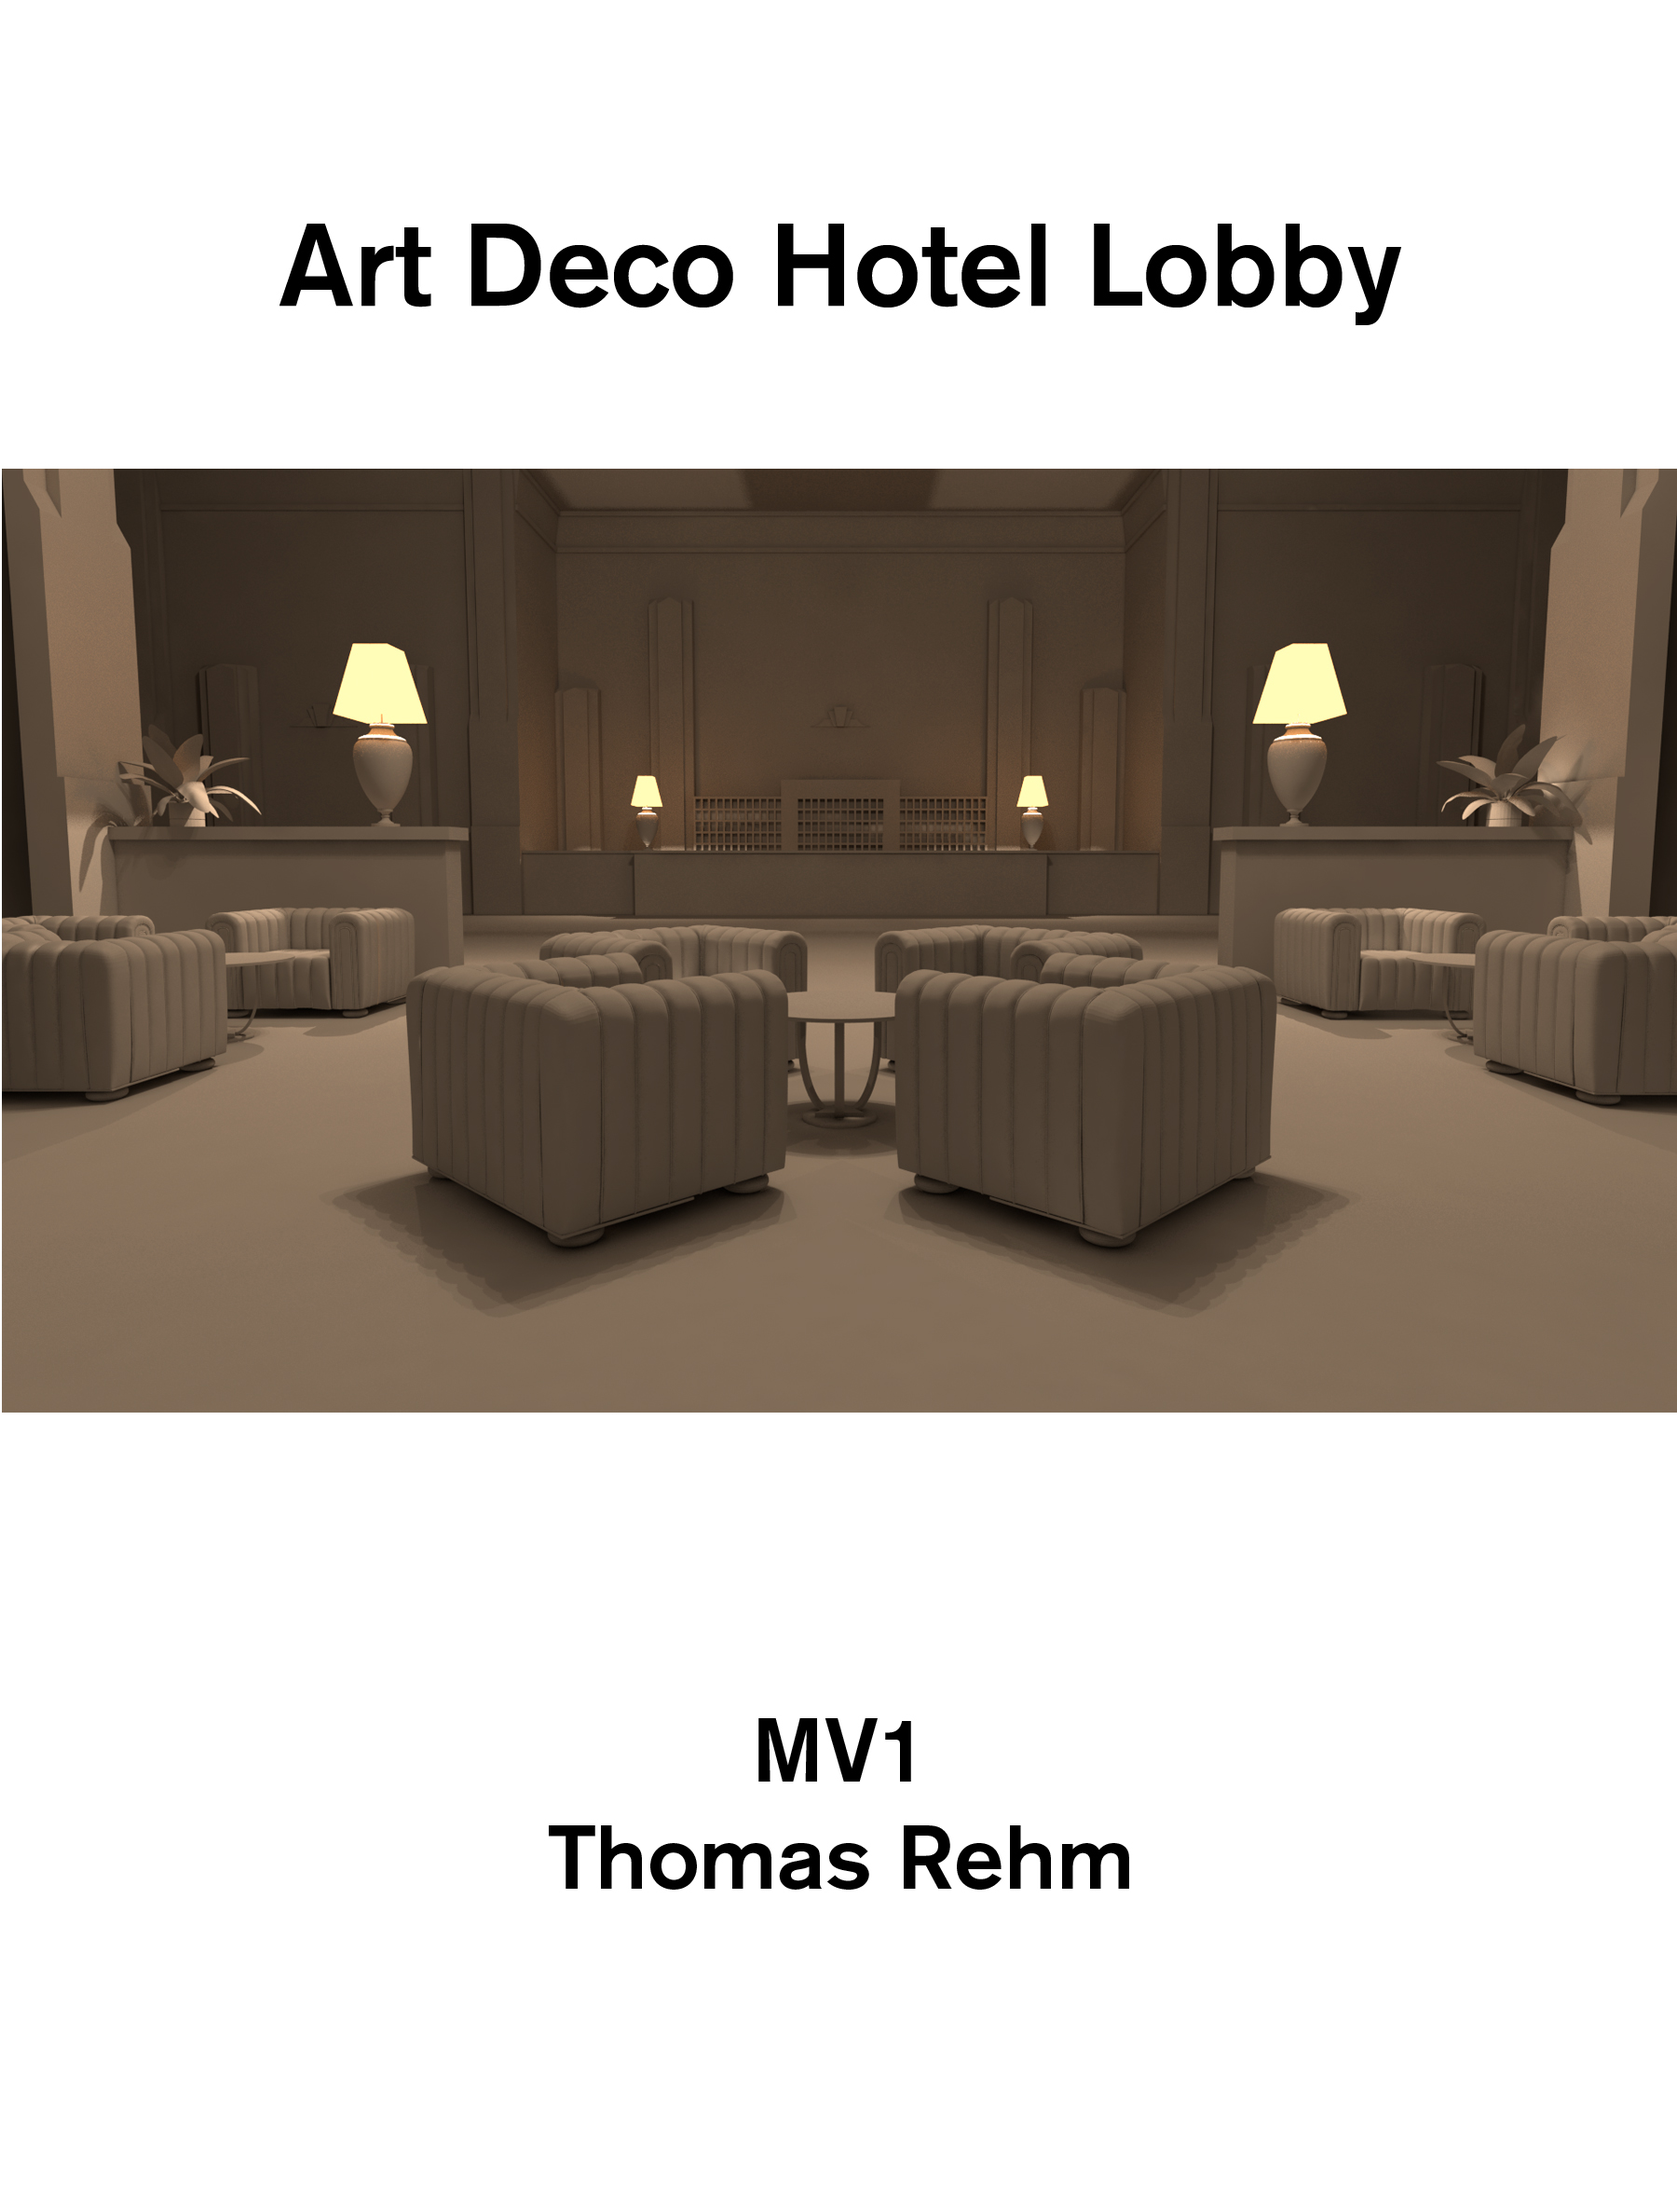
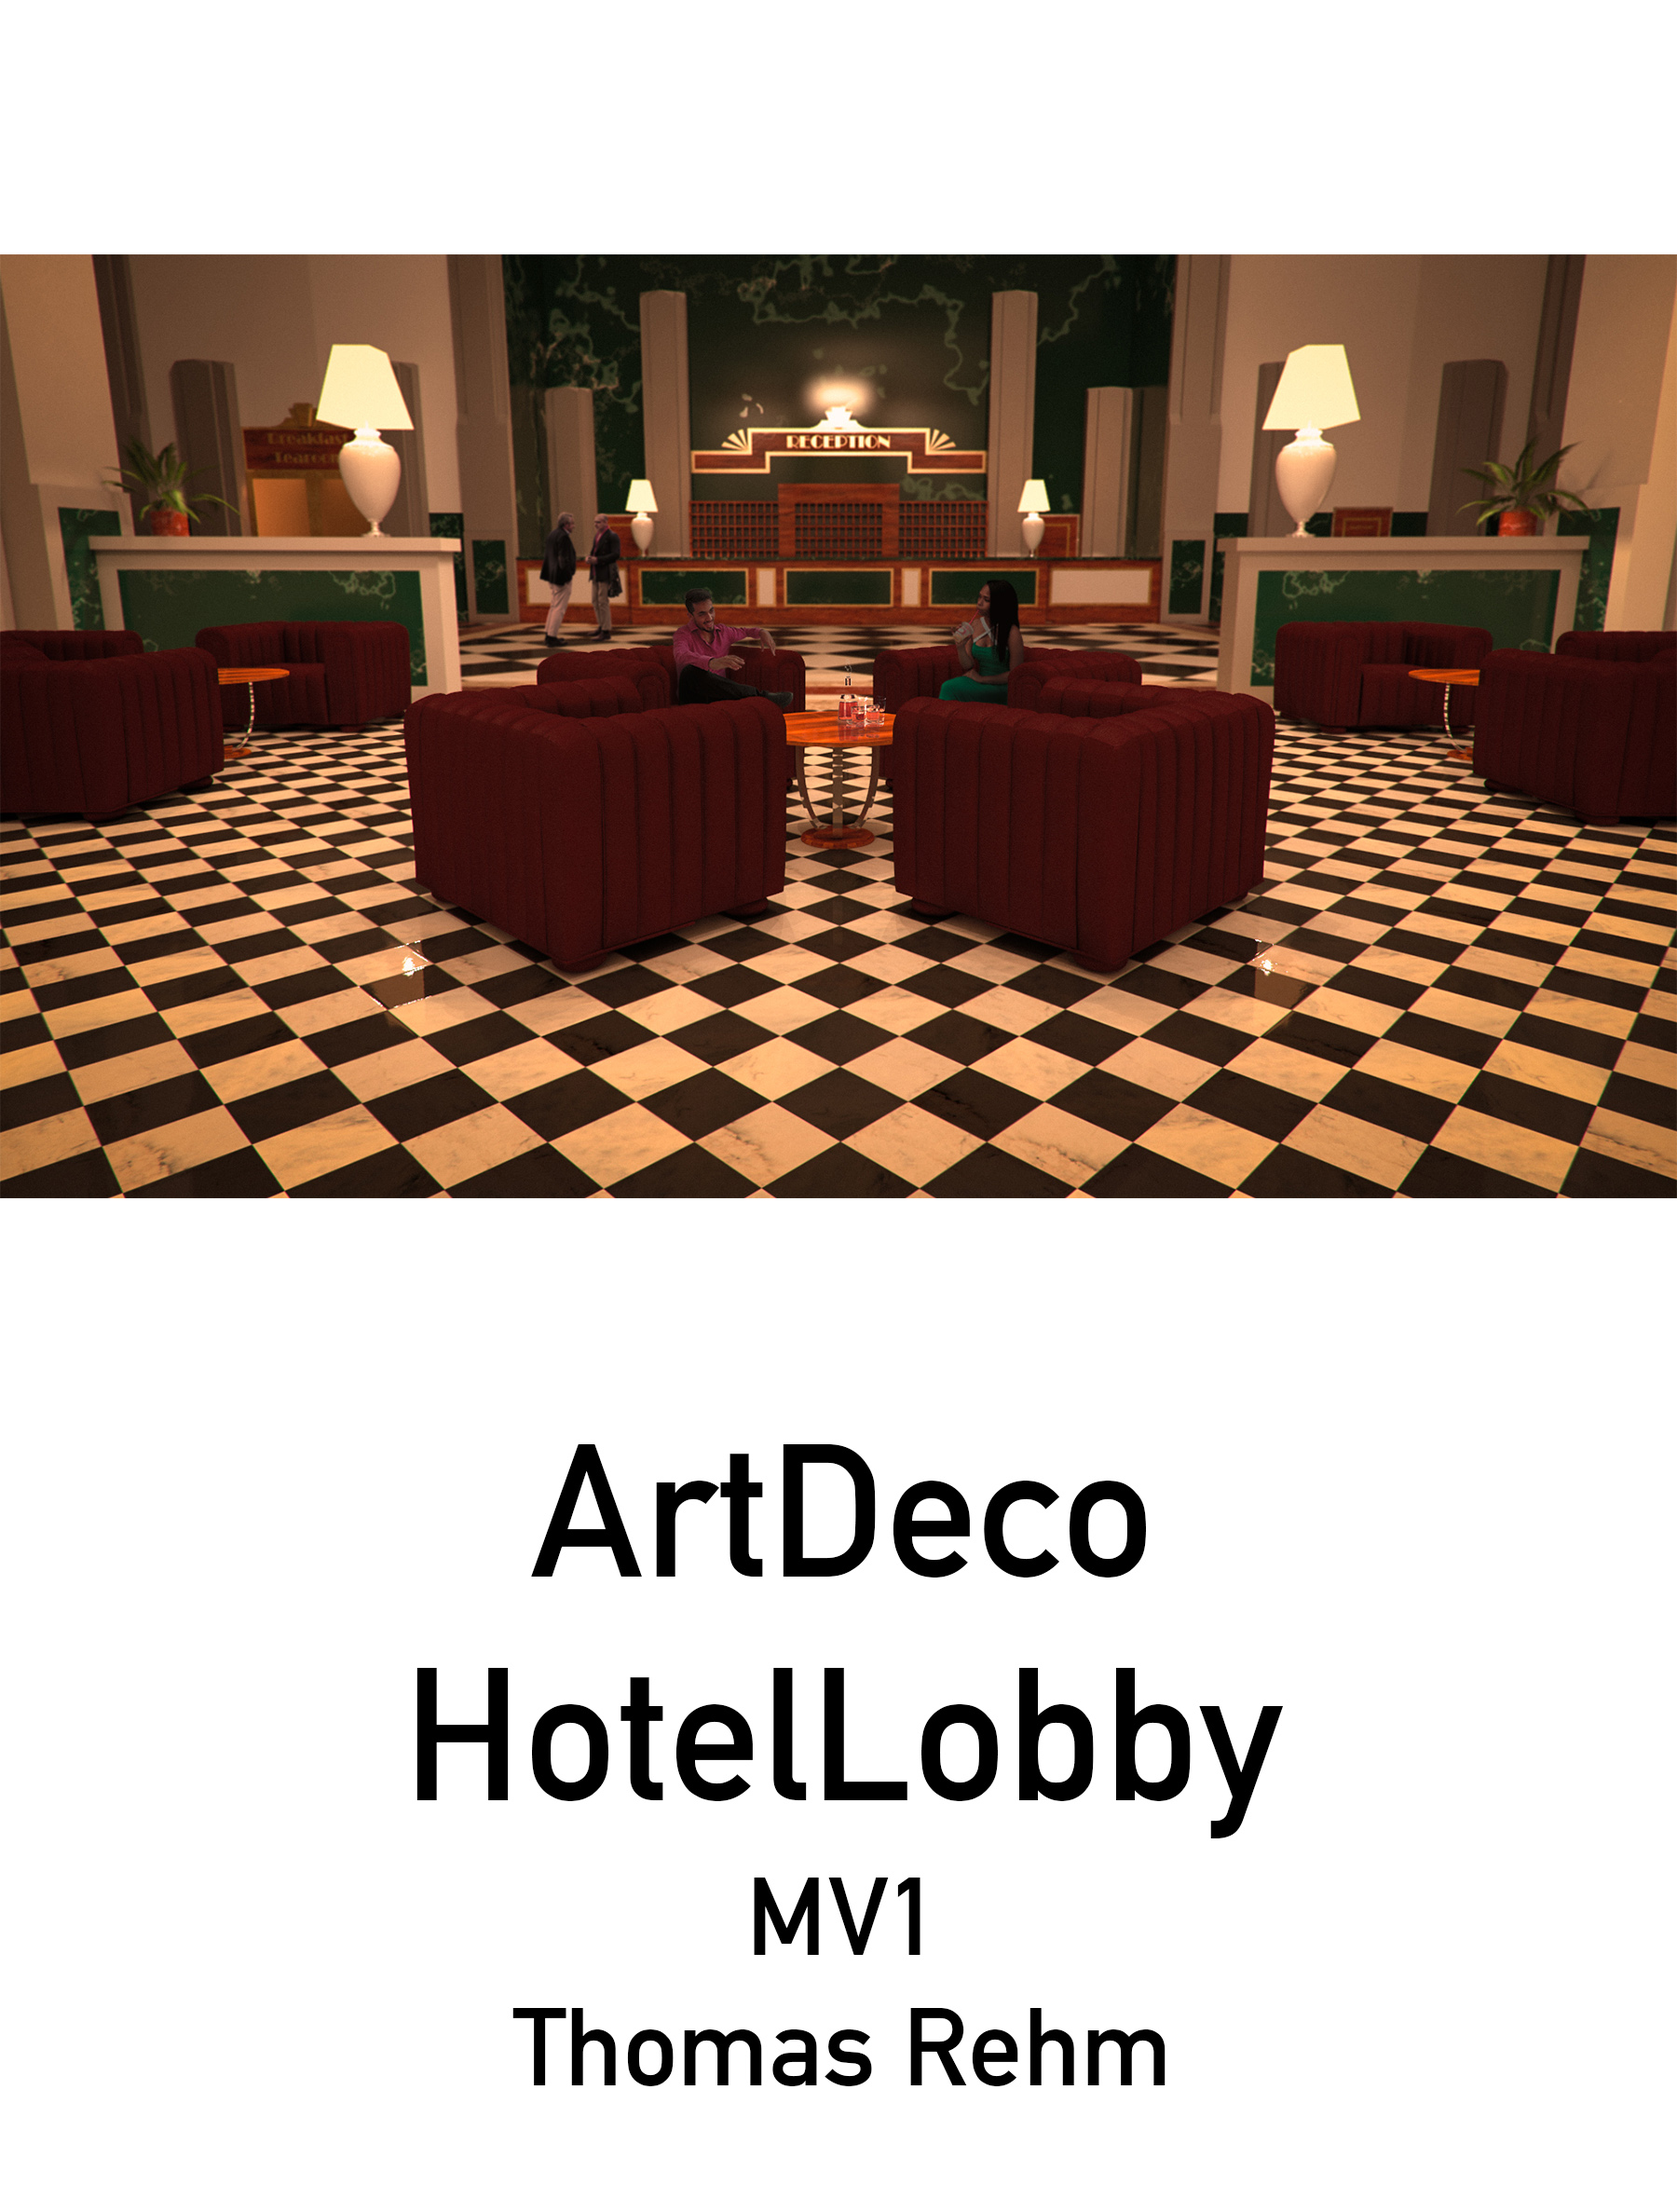
added postprocessing and final image

diff --git a/idee.md b/idee.md
@@ -4,7 +4,7 @@ Das Thema des Moduls im Wintersemester 2015/16 lautet **Architectual Public Inte
 
 Ziel des Projekts ist eine Hotel Lobby im Stile des Art Deco. Dabei handelt es sich zeitlich um die 20er bis 40er Jahre des 20. Jahrhunderts.
 
-Dabei soll der Eindruck entstehen, man befindet sich zu später Abendstunde in einer Hotel Lobby, ein hoher Raum mit gediegener Ausstattung, Gäste unterhalten sich in entspannter Atmosphäre. 
+Dabei soll der Eindruck entstehen, man befindet sich zu später Abendstunde in einer Hotel Lobby, ein hoher Raum mit gediegener Ausstattung, Gäste unterhalten sich in entspannter Atmosphäre.
 
 # Basismodell
 
@@ -53,3 +53,28 @@ Quelle: [https://3dwarehouse.sketchup.com/model.html?id=u8c5ee64c-61a8-4fb3-a57b
 
 ![Lampe](images/lampe.jpg)
 Quelle: [http://archive3d.net/?a=download&id=24e8b872](http://archive3d.net/?a=download&id=24e8b872)
+
+
+## Cut-Outs für die Post-Produktion
+**Menschen:**
+
+Cutout Woman Sitting 0037 by mrcutout.com
+
+![Cutout Woman Sitting 0037 by mrcutout.com](images/cutouts/www.mrcutout.com---A-lot-more-cutouts-like-this-one!---woman-sitting-0037-medium.png)
+
+Quelle:[http://www.mrcutout.com/index.php/component/content/article/78-cutouts/people-cutouts/1273-woman-sitting-0037](http://www.mrcutout.com/index.php/component/content/article/78-cutouts/people-cutouts/1273-woman-sitting-0037)
+
+Cutout Man Sitting 0018 by mrcutout.com
+
+![Cutout Man Sitting 0018 by mrcutout.com](images/cutouts/www.mrcutout.com---A-lot-more-cutouts-like-this-one!---man-sitting-0018-medium.png)
+
+Quelle: [http://www.mrcutout.com/index.php/component/content/article/78-cutouts/people-cutouts/846-man-sitting-0018](http://www.mrcutout.com/index.php/component/content/article/78-cutouts/people-cutouts/846-man-sitting-0018)
+
+
+Cutout Man Standing and Talking (Freebie from ronenbekerman.com)
+
+![Cutout Man Standing and Talking](images/cutouts/05.png)
+
+Quelle: [http://www.ronenbekerman.com/10-free-2d-cutout-people/](http://www.ronenbekerman.com/10-free-2d-cutout-people/)
+
+

diff --git a/post.md b/post.md
@@ -1,2 +1,28 @@
-# Post Processing
+# Post Production
 
+![Post-Production Stages GIF](images/postprocessingstages/postprocessingstages.gif)
+
+In der Post-Production wurde dem Rendering finale Schliff verliehen. Neben farblichen Anpassungen, leichter Unschärfe und Bild-Verschlechterungen für mehr Realismus, wurden auch CutOuts eingefügt um Leben in die Szene zu bringen.
+
+
+![Post-Production Stages - Basis Rendering](images/postprocessingstages/postprocessingstages-1.jpg)
+
+![Post-Production Stages - Added Depth of Field](images/postprocessingstages/postprocessingstages-2.jpg)
+
+![Post-Production Stages - Contrast Adjustments](images/postprocessingstages/postprocessingstages-3.jpg)
+
+![Post-Production Stages - Colorbalance](images/postprocessingstages/postprocessingstages-4.jpg)
+
+![Post-Production Stages - Color Lookup Table](images/postprocessingstages/postprocessingstages-5.jpg)
+
+![Post-Production Stages - Imagefilter](images/postprocessingstages/postprocessingstages-6.jpg)
+
+![Post-Production Stages - Contrast Adjustments](images/postprocessingstages/postprocessingstages-7.jpg)
+
+![Post-Production Stages - Reduced to SmartObject](images/postprocessingstages/postprocessingstages-8.jpg)
+
+![Post-Production Stages - CameraRaw Adjustments](images/postprocessingstages/postprocessingstages-9.jpg)
+
+![Post-Production Stages - Distortion & Abberations](images/postprocessingstages/postprocessingstages-10.jpg)
+
+![Post-Production Stages - Adding Objects](images/postprocessingstages/postprocessingstages-26.jpg)
